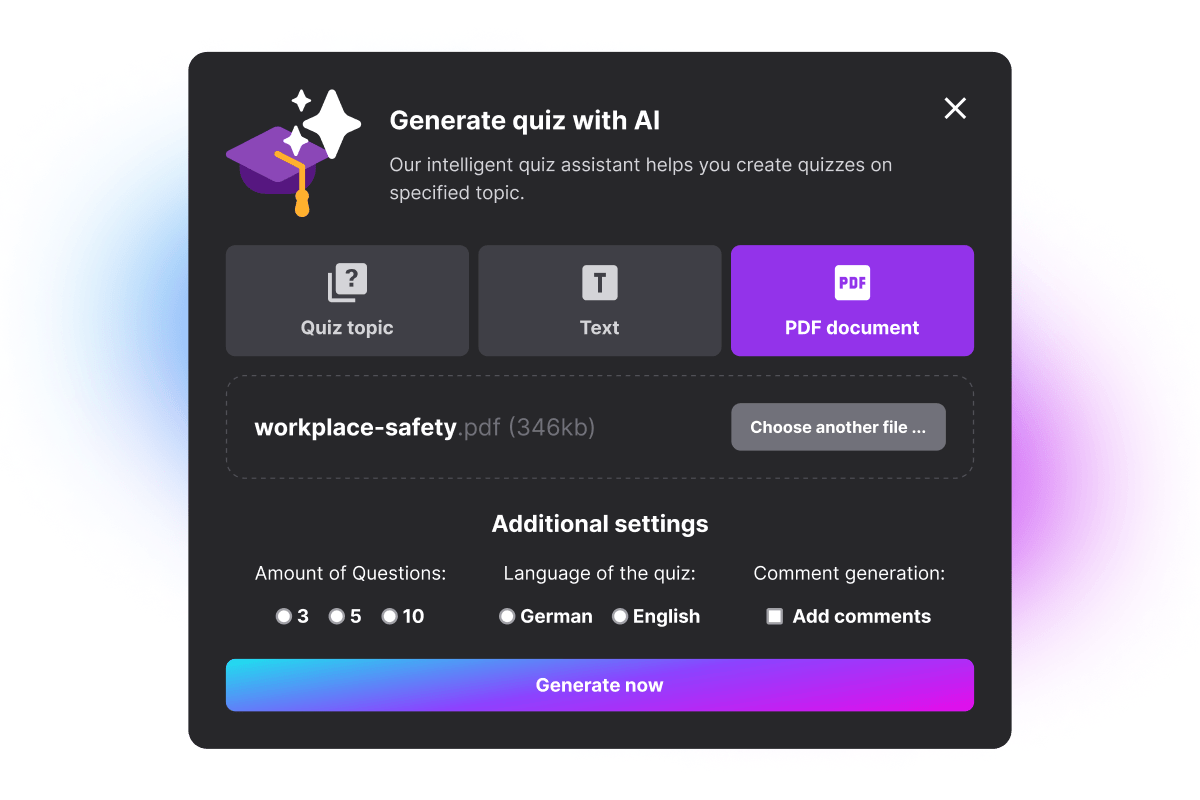
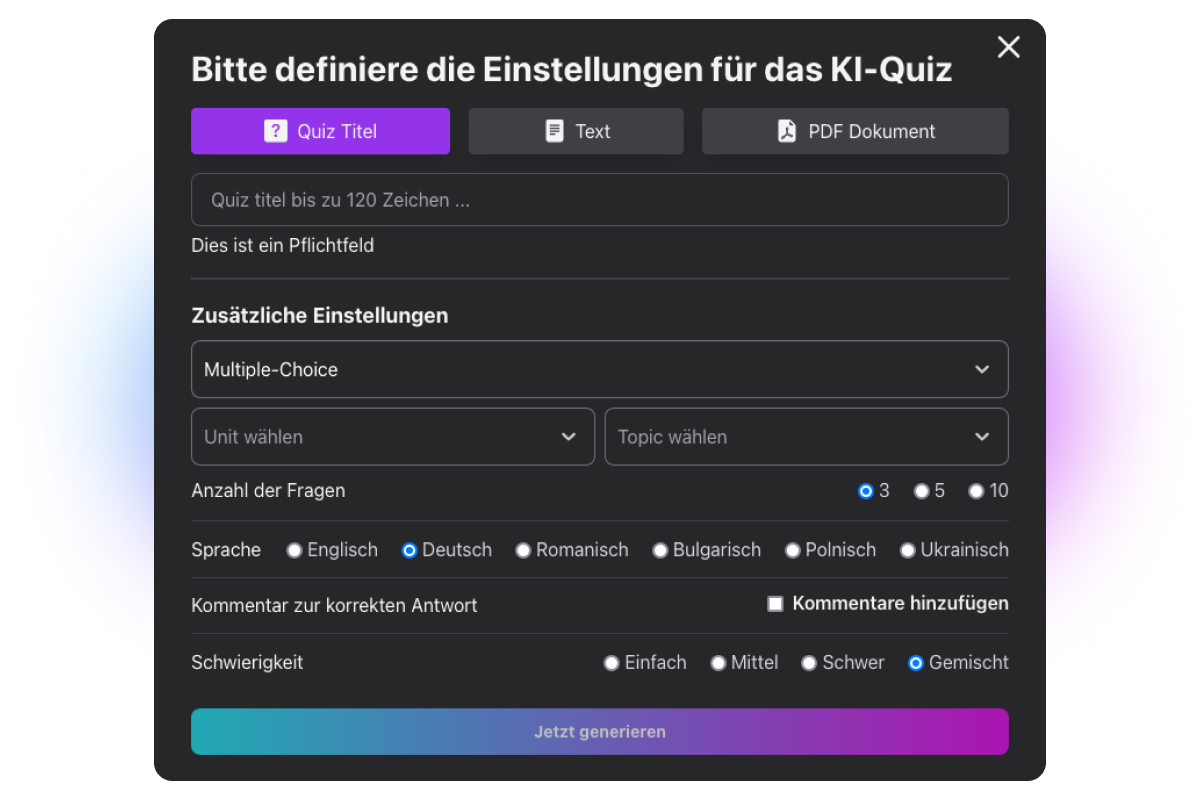
Update content for ai and features

diff --git a/src/_includes/partials/content-ai.html b/src/_includes/partials/content-ai.html
@@ -1,34 +1,29 @@
 <div class="bg-gray-900" id="ai-generator">
-    <div class="container px-4 py-12 md:py-24">
+    <div class="container px-4 py-12 md:py-14">
         <div class="grid gap-8 md:grid-cols-2 lg:gap-12 items-center">
             <div>
                 <h2 class="text-2xl md:text-3xl font-bold flex items-center">
                     <svg xmlns="http://www.w3.org/2000/svg" class="w-10 mr-2 text-green-400" viewBox="0 0 24 24"><title>shimmer</title><path fill="currentColor" d="M10.6 9.6L9 15L7.4 9.6L2 8L7.4 6.4L9 1L10.6 6.4L16 8L10.6 9.6M17 14.2L21 12L18.8 16L21 20L17 17.8L13 20L15.2 16L13 12L17 14.2M10 16L8.3 19L10 22L7 20.3L4 22L5.7 19L4 16L7 17.7L10 16" /></svg>
                     {{ contentForAi[locale].title }}
                 </h2>
-                <p class="leading-relaxed text-gray-400 my-6">
+                <p class="leading-relaxed text-gray-300 my-4">
                     {{ contentForAi[locale].text }}
                 </p>
+                <p class="leading-relaxed my-4 text-xl font-bold">
+                    {{ contentForAi[locale].listTwoTitle }}
+                </p>
                 <ul class="w-full mb-4">
-                    <li class="flex items-start py-2 text-white font-medium">
-                        <svg class="w-6 h-6 mt-0.5 text-green-400 flex-shrink-0 mr-3" fill="none" stroke="currentColor" viewBox="0 0 24 24" xmlns="http://www.w3.org/2000/svg"><path stroke-linecap="round" stroke-linejoin="round" stroke-width="2" d="M9 12l2 2 4-4m6 2a9 9 0 11-18 0 9 9 0 0118 0z"></path></svg>
-                        {{ contentForAi[locale].list1 }}
+                    <li class="flex items-start py-1 text-white font-medium">
+                        <svg class="w-6 h-6 mt-0.5 text-green-400 flex-shrink-0 mr-2" fill="none" stroke="currentColor" viewBox="0 0 24 24" xmlns="http://www.w3.org/2000/svg"><path stroke-linecap="round" stroke-linejoin="round" stroke-width="2" d="M9 12l2 2 4-4m6 2a9 9 0 11-18 0 9 9 0 0118 0z"></path></svg>
+                        {{ contentForAi[locale].listTwo1 }}
                     </li>
-                    <li class="flex items-start py-2 text-white font-medium">
-                        <svg class="w-6 h-6 mt-0.5 text-green-400 flex-shrink-0 mr-3" fill="none" stroke="currentColor" viewBox="0 0 24 24" xmlns="http://www.w3.org/2000/svg"><path stroke-linecap="round" stroke-linejoin="round" stroke-width="2" d="M9 12l2 2 4-4m6 2a9 9 0 11-18 0 9 9 0 0118 0z"></path></svg>
-                        {{ contentForAi[locale].list2 }}
+                    <li class="flex items-start py-1 text-white font-medium">
+                        <svg class="w-6 h-6 mt-0.5 text-green-400 flex-shrink-0 mr-2" fill="none" stroke="currentColor" viewBox="0 0 24 24" xmlns="http://www.w3.org/2000/svg"><path stroke-linecap="round" stroke-linejoin="round" stroke-width="2" d="M9 12l2 2 4-4m6 2a9 9 0 11-18 0 9 9 0 0118 0z"></path></svg>
+                        {{ contentForAi[locale].listTwo2 }}
                     </li>
-                    <li class="flex items-start py-2 text-white font-medium">
-                        <svg class="w-6 h-6 mt-0.5 text-green-400 flex-shrink-0 mr-3" fill="none" stroke="currentColor" viewBox="0 0 24 24" xmlns="http://www.w3.org/2000/svg"><path stroke-linecap="round" stroke-linejoin="round" stroke-width="2" d="M9 12l2 2 4-4m6 2a9 9 0 11-18 0 9 9 0 0118 0z"></path></svg>
-                        {{ contentForAi[locale].list3 }}
-                    </li>
-                    <li class="flex items-start py-2 text-white font-medium">
-                        <svg class="w-6 h-6 mt-0.5 text-green-400 flex-shrink-0 mr-3" fill="none" stroke="currentColor" viewBox="0 0 24 24" xmlns="http://www.w3.org/2000/svg"><path stroke-linecap="round" stroke-linejoin="round" stroke-width="2" d="M9 12l2 2 4-4m6 2a9 9 0 11-18 0 9 9 0 0118 0z"></path></svg>
-                        {{ contentForAi[locale].list4 }}
-                    </li>
-                    <li class="flex items-start py-2 text-white font-medium">
-                        <svg class="w-6 h-6 mt-0.5 text-green-400 flex-shrink-0 mr-3" fill="none" stroke="currentColor" viewBox="0 0 24 24" xmlns="http://www.w3.org/2000/svg"><path stroke-linecap="round" stroke-linejoin="round" stroke-width="2" d="M9 12l2 2 4-4m6 2a9 9 0 11-18 0 9 9 0 0118 0z"></path></svg>
-                        {{ contentForAi[locale].list5 }}
+                    <li class="flex items-start py-1 text-white font-medium">
+                        <svg class="w-6 h-6 mt-0.5 text-green-400 flex-shrink-0 mr-2" fill="none" stroke="currentColor" viewBox="0 0 24 24" xmlns="http://www.w3.org/2000/svg"><path stroke-linecap="round" stroke-linejoin="round" stroke-width="2" d="M9 12l2 2 4-4m6 2a9 9 0 11-18 0 9 9 0 0118 0z"></path></svg>
+                        {{ contentForAi[locale].listTwo3 }}
                     </li>
                 </ul>
                 <div class="inline-block whitespace-nowrap gradient py-2 font-medium px-4 rounded-xl hover:brightness-110 cursor-pointer" @click="ContactModal = true">{{ site[locale].requestDemo }}</div>

diff --git a/src/_data/contentForAi.js b/src/_data/contentForAi.js
@@ -3,24 +3,36 @@ module.exports = {
         badge2: "Generiere mit dem LearnSlice AI-Assistant relevante Inhalte 15-mal schneller!",
         badge: "Quizze 15-mal schneller mit KI erstellen!",
         learnmore: "Mehr",
-        title: "Quizze 15-mal schneller erstellen!",
-        text: "Entdecken Sie unsere innovative Funktion, die Lernenden und Lehrenden ermöglicht, innerhalb ihrer Organisation relevante Bewertungen 15-mal schneller zu erstellen, überprüfen, anzupassen und zu teilen! Verabschieden Sie sich von zeitaufwändiger Prüfungsvorbereitung und der Erstellung obligatorischer Tests. Erreichen Sie eine neue Ebene der Bildungsexzellenz mit Leichtigkeit.",
-        list1: "KI füllt Fragekarten automatisch für die Überprüfung und Anpassung durch Menschen aus und spart dabei 93% wertvolle Zeit.",
-        list2: "Generieren Sie blitzschnell bis zu 10 Fragen mit Antworten.",
-        list3: "KI erstellt falsche Antwortoptionen zur Begleitung der richtigen Antwort.",
-        list4: "KI bietet erläuternde Kommentare zu richtigen Antworten.",
-        list5: "Verfügbar für Multiple-Choice, offene Fragen und Wissenstest-Quiz!"
+        title: "Lernen ohne Teststress – So geht's!",
+        text: "Stellen Sie sich vor: Sie erstellen individuelle, interaktive Tests in Sekundenschnelle. Laden Sie einfach ein beliebiges Dokument hoch und unsere LearnAI generiert im Handumdrehen ein maßgeschneidertes Quiz, das sich genau auf das Wissen Ihrer Lernenden konzentriert. All das verfügbar in 10+ Sprachen.",
+
+        text2: "Das ist nicht nur schnell, sondern auch intelligent! Unsere KI geht weit über die einfache Erstellung von Fragen hinaus:",
+        list1: "Mühelose Effizienz: Laden Sie ein Dokument beliebiger Länge hoch und erhalten Sie innerhalb von Sekunden ein Quiz – sparen Sie 93% Ihrer Zeit!",
+        list2: "KI-gestütztes Lernen: Unsere KI füllt automatisch Quizkarten vor, generiert falsche Antwortmöglichkeiten und liefert Erklärungen zu den richtigen Antworten.",
+        list3: "Intelligente Fragenvorschläge: Erhalten Sie Quiz-Empfehlungen basierend auf den Erfahrungen Ihrer Lernenden, um das richtige Schwierigkeitsniveau zu gewährleisten.",
+        list4: "Lernen in jeder Sprache! Laden Sie Dokumente auf Englisch oder Deutsch hoch und erhalten Sie Quizfragen in der Muttersprache Ihrer Lernenden (Deutsch, Englisch, Polnisch, Ukrainisch, Bulgarisch, Rumänisch usw.).",
+
+        listTwoTitle: "Machen Sie Schluss mit:",
+        listTwo1: "Zeitraubendem Erstellen von Tests",
+        listTwo2: "Nutzlosen 08/15-Quizzen",
+        listTwo3: "Der Suche nach der richtigen Bewertung für Ihre Bedürfnisse"
     },
     en: {
         badge2: "Generate relevant content 15 times faster with LearnSlice AI-Assistant!",
         badge: "Create quizzes 15x faster with AI!",
         learnmore: "Learn more",
-        title: "Create quizzes 15x faster!",
-        text: "Introducing our groundbreaking feature that empowers learners and educators to create, review, adjust, and share relevant assessments within their organisation at an impressive 15 times the speed! Say goodbye to time-consuming exam preparations and creation of mandatory tests. Embrace a future where educational mastery is within your reach like never before.",
-        list1: "AI autofills quiz cards for human review and adjustments, saving 93% of time.",
-        list2: "Generate up to 10 questions with answer options in a matter of seconds.",
-        list3: "AI generates incorrect answer options alongside the correct answer.",
-        list4: "AI provides comments to offer further explanations for the correct answers.",
-        list5: "Available for multiple-choice, open-ended, and knowledge level quiz types!"
+        title: "Tired of Wasting Time Building Tests?",
+        text: "Imagine creating personalized, interactive assessments in seconds – no more sifting through generic test banks. Upload any document, and our LearnAI instantly generates a tailored quiz that focuses on exactly what your learners need to know. Available in 10+ Languages!",
+
+        text2: "This isn't just fast – it's smart. Our AI goes beyond basic question creation:",
+        list1: "Effortless Efficiency: Upload a document of any length and get a quiz in seconds – that's 93% of your time saved!",
+        list2: "AI-Powered Learning: Our AI autofills quiz cards, generates incorrect answer options, and provides explanations for the correct ones.",
+        list3: "Smart Question Suggestions: Get quiz recommendations based on your learners' experience, ensuring the right level of challenge.",
+        list4: "Learn in any language! Upload documents in English or German and get quizzes in your learners' native tongue (German, English, Polish, Ukrainian, Bulgarian, Romanian, etc.).",
+
+        listTwoTitle: "Say goodbye to:",
+        listTwo1: "Time-consuming test creation",
+        listTwo2: "Generic, one-size-fits-all quizzes",
+        listTwo3: "The struggle to find the right assessment for your needs"
     }
 };  

diff --git a/src/_data/featuresSoftware.js b/src/_data/featuresSoftware.js
@@ -11,8 +11,8 @@ module.exports = {
             icon: "M7 21a4 4 0 01-4-4V5a2 2 0 012-2h4a2 2 0 012 2v12a4 4 0 01-4 4zm0 0h12a2 2 0 002-2v-4a2 2 0 00-2-2h-2.343M11 7.343l1.657-1.657a2 2 0 012.828 0l2.829 2.829a2 2 0 010 2.828l-8.486 8.485M7 17h.01"
         },
         {
-            label: "Verfügbare Sprachen",
-            text: "Standardmäßig wird LearnSlice auf Deutsch und Englisch verfügbar sein.",
+            label: "Lernen in über 10 Sprachen",
+            text: "LearnSlice bietet mehr als nur Englisch und Deutsch.",
             icon: "M3.055 11H5a2 2 0 012 2v1a2 2 0 002 2 2 2 0 012 2v2.945M8 3.935V5.5A2.5 2.5 0 0010.5 8h.5a2 2 0 012 2 2 2 0 104 0 2 2 0 012-2h1.064M15 20.488V18a2 2 0 012-2h3.064M21 12a9 9 0 11-18 0 9 9 0 0118 0z"
         }
         ],
@@ -28,8 +28,8 @@ module.exports = {
             icon: "M7 21a4 4 0 01-4-4V5a2 2 0 012-2h4a2 2 0 012 2v12a4 4 0 01-4 4zm0 0h12a2 2 0 002-2v-4a2 2 0 00-2-2h-2.343M11 7.343l1.657-1.657a2 2 0 012.828 0l2.829 2.829a2 2 0 010 2.828l-8.486 8.485M7 17h.01"
         },
         {
-            label: "Available Languages",
-            text: "By default, LearnSlice will be available in German and English.",
+            label: "Learning in 10+ Languages",
+            text: "LearnSlice goes beyond English and German.",
             icon: "M3.055 11H5a2 2 0 012 2v1a2 2 0 002 2 2 2 0 012 2v2.945M8 3.935V5.5A2.5 2.5 0 0010.5 8h.5a2 2 0 012 2 2 2 0 104 0 2 2 0 012-2h1.064M15 20.488V18a2 2 0 012-2h3.064M21 12a9 9 0 11-18 0 9 9 0 0118 0z"
         }
         ]
